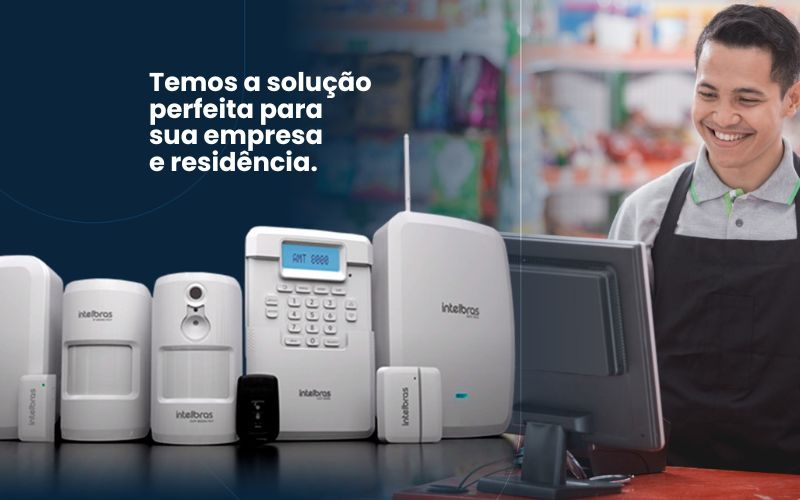
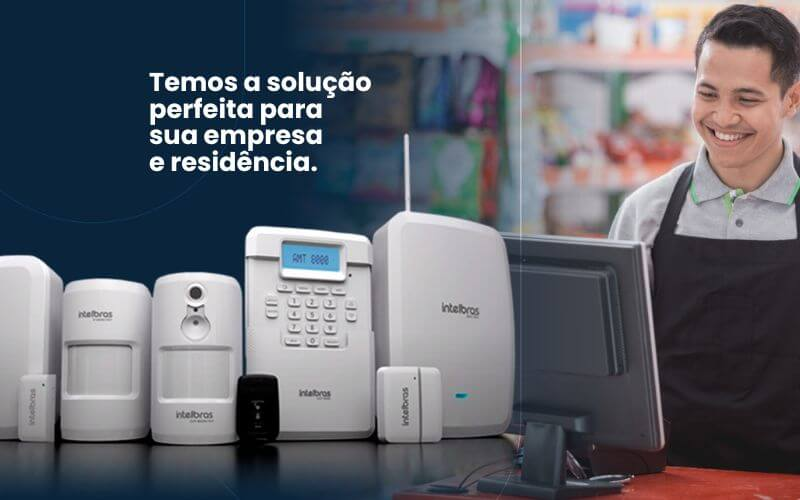
Atualização - Imagens: PNG - JPG

diff --git a/index.html b/index.html
@@ -6,7 +6,8 @@
     <meta name="viewport" content="width=device-width, initial-scale=1.0">
     <meta name="author" content="AX-Security">
     <meta name="title" content="Ax Security" />
-    <meta name="description" content="A melhor Empresa em Segurança Eletrônica Patrimonial, Tecnologia Intelbras | Tudo em até 12x sem juros | Câmeras de segurança 24h | Ligue (11) 4148-2953.re!" />
+    <meta name="description"
+        content="A melhor Empresa em Segurança Eletrônica Patrimonial, Tecnologia Intelbras | Tudo em até 12x sem juros | Câmeras de segurança 24h | Ligue (11) 4148-2953.re!" />
     <meta name="robots" content="index, follow">
     <title>AX Security</title>
     <link rel="shortcut icon" href="source/img/geral/ax.ico" type="image/x-icon">
@@ -14,6 +15,19 @@
     <link rel="stylesheet" href="source/css/global.css">
     <link rel="stylesheet" href="source/css/style.css">
     <meta name="google-site-verification" content="1UAN8ZMaaEQEVliRxwSNIFayV4CYWxszO4hPiTZ0x_M" />
+
+    <head>
+        <script async src="https://www.googletagmanager.com/gtag/js?id=AW-16769529963"></script>
+        <script>
+            window.dataLayer = window.dataLayer || [];
+            function gtag() { dataLayer.push(arguments); }
+            gtag('js', new Date());
+            gtag('config', 'AW-16769529963');
+        </script>
+        <script>
+            gtag('event', 'conversion', { 'send_to': 'AW-16769529963/ncVdCOL8mecZEOvwqrw-' });
+        </script>
+    </head>
 </head>
 
 <body>
@@ -116,7 +130,8 @@
         <article class="cardVisao">
             <img src="source/img/icones/iconNecessidade.svg" alt="Ícone Necessidade" title="Ícone Necessidade">
             <h2 class="tituloCard">Necessidade</h2>
-            <p class="descricaoCard">Oferecemos soluções para garantir a segurança da sua empresa e de sua residência.</p>
+            <p class="descricaoCard">Oferecemos soluções para garantir a segurança da sua empresa e de sua residência.
+            </p>
         </article>
     </section>
     <section id="sctThree">
@@ -142,7 +157,8 @@
                 <img class="cardImg es" src="source/img/icones/iconEspecialidade.svg" alt="Ícone Especialidade"
                     title="Ícone Especialidade">
                 <h3 class="tituloVtg">Especialidade</h3>
-                <p class="descricaoVtg">Somos especialistas em oferecer as melhores soluções de acordo com suas necessidades.</p>
+                <p class="descricaoVtg">Somos especialistas em oferecer as melhores soluções de acordo com suas
+                    necessidades.</p>
             </article>
             <article class="cardVtg four">
                 <img class="cardImg ri" src="source/img/icones/iconRiscos.svg" alt="Ícone Riscos" title="Ícone Riscos">
@@ -158,7 +174,8 @@
                 <div class="svcCardDetalhes seg">
                     <h3>Segurança Eletrônica</h3>
                     <p>
-                        A <span>AX SECURITY</span> oferece projetos completos de Segurança Eletrônica, sempre utilizando as tecnologias mais avançadas e os melhores produtos do mercado.
+                        A <span>AX SECURITY</span> oferece projetos completos de Segurança Eletrônica, sempre utilizando
+                        as tecnologias mais avançadas e os melhores produtos do mercado.
                     </p>
                     <h5>Entre as Opções Estão:</h5>
                     <ul>
@@ -171,7 +188,7 @@
                         <li>MONITORAMENTO PARA EVENTOS</li>
                     </ul>
                     <div class="toggleDetalhes"></div>
-                </div>  
+                </div>
             </div>
             <article class="svcBox">
                 <section class="svcImg seg"></section>
@@ -211,7 +228,8 @@
                 <section class="svcImg ala"></section>
                 <section class="svcInfos ala">
                     <h2 class="svcTitle">Alarmes Monitorados</h2>
-                    <p class="svcDescricao">A AX Security possui uma completa e moderna instalação de alarmes de altíssimo nível e qualidade, linha 8000 Intelbras...</p>
+                    <p class="svcDescricao">A AX Security possui uma completa e moderna instalação de alarmes de
+                        altíssimo nível e qualidade, linha 8000 Intelbras...</p>
                     <a class="svcBtn ala">Saiba Mais</a>
                 </section>
             </article>
@@ -294,17 +312,23 @@
                 <div class="svcCardDetalhes evt">
                     <h3>Central de Monitoramento</h3>
                     <p>
-                        A central de monitoramento da <span>AX Security</span> é o coração da nossa operação, projetada para oferecer segurança de excelência 24 horas por dia. 
-                        Equipadas com tecnologia de ponta e uma equipe altamente treinada, nossas instalações garantem vigilância constante e resposta imediata a qualquer situação.
+                        A central de monitoramento da <span>AX Security</span> é o coração da nossa operação, projetada
+                        para oferecer segurança de excelência 24 horas por dia.
+                        Equipadas com tecnologia de ponta e uma equipe altamente treinada, nossas instalações garantem
+                        vigilância constante e resposta imediata a qualquer situação.
                     </p>
                     <p>
-                        Com câmeras de alta definição e sistemas de análise de dados em tempo real, a central monitora diversos pontos simultaneamente, 
-                        identificando comportamentos suspeitos e garantindo a proteção de nossos clientes. 
-                        Nossos operadores, experientes e dedicados, estão sempre prontos para agir, comunicando-se diretamente com as autoridades locais e equipes de segurança em caso de necessidade.
+                        Com câmeras de alta definição e sistemas de análise de dados em tempo real, a central monitora
+                        diversos pontos simultaneamente,
+                        identificando comportamentos suspeitos e garantindo a proteção de nossos clientes.
+                        Nossos operadores, experientes e dedicados, estão sempre prontos para agir, comunicando-se
+                        diretamente com as autoridades locais e equipes de segurança em caso de necessidade.
                     </p>
                     <p>
-                        Além de monitorar alarmes e câmeras, a central também oferece suporte ao cliente, tirando dúvidas e orientando os moradores em situações específicas. 
-                        A AX Security se compromete a manter sua comunidade segura e informada, utilizando tecnologia e expertise para proporcionar a tranquilidade que você merece.
+                        Além de monitorar alarmes e câmeras, a central também oferece suporte ao cliente, tirando
+                        dúvidas e orientando os moradores em situações específicas.
+                        A AX Security se compromete a manter sua comunidade segura e informada, utilizando tecnologia e
+                        expertise para proporcionar a tranquilidade que você merece.
                     </p>
                     <div class="toggleDetalhes evt"></div>
                 </div>
@@ -323,18 +347,26 @@
                     <h3>Ax Conect</h3>
                     <div style="color: #787D85; line-height: 18px;">
                         <p>
-                            A <span>AX Security</span> tem o prazer de anunciar o lançamento de seu mais recente produto inovador: o poste de monitoramento inteligente AX Connect. 
-                            Este equipamento foi projetado para oferecer uma solução de segurança eficaz e contínua para condomínios e áreas urbanas. 
-                            Com o AX Connect, você e sua comunidade estarão monitorados 24 horas por dia, proporcionando tranquilidade e proteção em tempo integral.
+                            A <span>AX Security</span> tem o prazer de anunciar o lançamento de seu mais recente produto
+                            inovador: o poste de monitoramento inteligente AX Connect.
+                            Este equipamento foi projetado para oferecer uma solução de segurança eficaz e contínua para
+                            condomínios e áreas urbanas.
+                            Com o AX Connect, você e sua comunidade estarão monitorados 24 horas por dia, proporcionando
+                            tranquilidade e proteção em tempo integral.
                         </p>
                         <p>
-                            O poste inteligente combina tecnologia de ponta com uma rede de vigilância integrada, garantindo que qualquer atividade suspeita seja detectada rapidamente. 
-                            Além disso, sua conectividade permite que os moradores se mantenham informados e em contato direto com a central de segurança, promovendo uma resposta ágil em situações de emergência.
+                            O poste inteligente combina tecnologia de ponta com uma rede de vigilância integrada,
+                            garantindo que qualquer atividade suspeita seja detectada rapidamente.
+                            Além disso, sua conectividade permite que os moradores se mantenham informados e em contato
+                            direto com a central de segurança, promovendo uma resposta ágil em situações de emergência.
                         </p>
                         <p>
-                            Investir no AX Connect é uma forma de garantir a segurança e o bem-estar de todos. Com um design moderno e discreto, ele se integra harmoniosamente ao ambiente, 
-                            sem comprometer a estética do condomínio. Experimente a paz de espírito que vem com um sistema 
-                            de monitoramento inteligente e faça parte de uma comunidade mais segura e conectada. Com a AX Security, 
+                            Investir no AX Connect é uma forma de garantir a segurança e o bem-estar de todos. Com um
+                            design moderno e discreto, ele se integra harmoniosamente ao ambiente,
+                            sem comprometer a estética do condomínio. Experimente a paz de espírito que vem com um
+                            sistema
+                            de monitoramento inteligente e faça parte de uma comunidade mais segura e conectada. Com a
+                            AX Security,
                             você pode confiar que a proteção do seu lar está em boas mãos!
                         </p>
                     </div>
@@ -344,7 +376,8 @@
             <article class="svcBox">
                 <section class="svcInfos axc">
                     <h2 class="svcTitle">Ax Connect</h2>
-                    <p class="svcDescricao">A AX Security lança seu mais novo produto, um poste de monitoramento inteligente! Você e seu condomínio monitorados 24H e conectados com a nossa segurança!
+                    <p class="svcDescricao">A AX Security lança seu mais novo produto, um poste de monitoramento
+                        inteligente! Você e seu condomínio monitorados 24H e conectados com a nossa segurança!
                     </p>
                     <a class="svcBtn axc">Saiba Mais</a>
                 </section>
@@ -445,7 +478,8 @@
             <div class="pdtDetalhes amt8000Pro">
                 <div class="pdtCardDetalhes amt8000Pro">
                     <h3>AMT 8000 PRO</h3>
-                    <p>Central de alarme de alta performance, comunicação com todos os dispositivos da linha 8000 com Wi-Fi e sirene integrados.</p>
+                    <p>Central de alarme de alta performance, comunicação com todos os dispositivos da linha 8000 com
+                        Wi-Fi e sirene integrados.</p>
                     <ul>
                         <li>Solução integrada e totalmente sem fio</li>
                         <li>Sirene integrada para alertar imprevistos</li>
@@ -463,7 +497,8 @@
             <div class="pdtDetalhes amt8000Lite">
                 <div class="pdtCardDetalhes amt8000Lite">
                     <h3>AMT 8000 LITE</h3>
-                    <p>A AMT 8000 LITE conta com 16 partições independentes e até 64 zonas e circuito de sirene integrado.</p>
+                    <p>A AMT 8000 LITE conta com 16 partições independentes e até 64 zonas e circuito de sirene
+                        integrado.</p>
                     <ul>
                         <li>Solução totalmente sem fio</li>
                         <li>Sirene integrada</li>
@@ -481,7 +516,8 @@
             <div class="pdtDetalhes ivp8000PetCam">
                 <div class="pdtCardDetalhes ivp8000PetCam">
                     <h3>IVP 8000 PET CAM</h3>
-                    <p>Com câmera integrada e alta eficiência, o sensor é capaz de validar o disparo em tempo real através da fotoverificação.</p>
+                    <p>Com câmera integrada e alta eficiência, o sensor é capaz de validar o disparo em tempo real
+                        através da fotoverificação.</p>
                     <ul>
                         <li>Identificação do disparo em tempo real</li>
                         <li>Mais segurança para seu pet</li>
@@ -499,7 +535,8 @@
             <div class="pdtDetalhes ivp8000Pet">
                 <div class="pdtCardDetalhes ivp8000Pet">
                     <h3>IVP 8000 PET</h3>
-                    <p>Detecta intrusos com precisão enquanto seu animal doméstico transita pela residência sem causar disparos acidentais.</p>
+                    <p>Detecta intrusos com precisão enquanto seu animal doméstico transita pela residência sem causar
+                        disparos acidentais.</p>
                     <ul>
                         <li>Mais segurança para seu pet</li>
                         <li>Configuração através de software remoto</li>
@@ -517,7 +554,8 @@
             <div class="pdtDetalhes ivp8000Ex">
                 <div class="pdtCardDetalhes ivp8000Ex">
                     <h3>IVP 8000 EX</h3>
-                    <p>Possui 2 canais de PIR e função PET, pode ser utilizado em locais com variações climáticas para detecção de intrusões.</p>
+                    <p>Possui 2 canais de PIR e função PET, pode ser utilizado em locais com variações climáticas para
+                        detecção de intrusões.</p>
                     <ul>
                         <li>Sensor para área externa</li>
                         <li>Função antissabotagem</li>
@@ -550,7 +588,8 @@
             <div class="pdtDetalhes xat8000">
                 <div class="pdtCardDetalhes xat8000">
                     <h3>XAT 8000</h3>
-                    <p>O teclado XAT 8000 é um acessório que aumenta a segurança e personaliza a interação do usuário com a central.</p>
+                    <p>O teclado XAT 8000 é um acessório que aumenta a segurança e personaliza a interação do usuário
+                        com a central.</p>
                     <ul>
                         <li>Série 8000</li>
                         <li>Divisão por ambientes</li>
@@ -566,7 +605,8 @@
             <div class="pdtDetalhes xac8000">
                 <div class="pdtCardDetalhes xac8000">
                     <h3>XAC 8000</h3>
-                    <p>O controle remoto XAC 8000 é um acessório que facilita a comunicação entre usuário e a central de alarme, facilitando o ativar/desativar da central.</p>
+                    <p>O controle remoto XAC 8000 é um acessório que facilita a comunicação entre usuário e a central de
+                        alarme, facilitando o ativar/desativar da central.</p>
                     <ul>
                         <li>Série 8000</li>
                         <li>Divisão por ambientes</li>
@@ -582,7 +622,8 @@
             <div class="pdtDetalhes rep8000">
                 <div class="pdtCardDetalhes rep8000">
                     <h3>REP 8000</h3>
-                    <p>Desenvolvido para aumentar o alcance do sistema sem fio. É possível expandir a cobertura em 1000 metros sem barreira.</p>
+                    <p>Desenvolvido para aumentar o alcance do sistema sem fio. É possível expandir a cobertura em 1000
+                        metros sem barreira.</p>
                     <ul>
                         <li>Flexibilidade na instalação em locais de grandes extensões</li>
                         <li>Liberdade na fixação dos dispositivos</li>
@@ -614,7 +655,8 @@
             <div class="pdtDetalhes vipw1220DFcP">
                 <div class="pdtCardDetalhes vipw1220DFcP">
                     <h3>VIPW 1220 D FC+</h3>
-                    <p>Com Full Color +, permite a transição fácil entre as imagens noturnas e coloridas do Full Color e o modo de captura noturna por IR.</p>
+                    <p>Com Full Color +, permite a transição fácil entre as imagens noturnas e coloridas do Full Color e
+                        o modo de captura noturna por IR.</p>
                     <ul>
                         <li>Tecnologia Wi-Fi para projetos de CFTV</li>
                         <li>Full Color Inteligente</li>
@@ -632,7 +674,8 @@
             <div class="pdtDetalhes vipw1220DFc">
                 <div class="pdtCardDetalhes vipw1220DFc">
                     <h3>VIPW 1220 D FC</h3>
-                    <p>A câmera apresenta conexão Wi-Fi e proporciona um monitoramento com imagens coloridas mesmo em ambientes sem iluminação.</p>
+                    <p>A câmera apresenta conexão Wi-Fi e proporciona um monitoramento com imagens coloridas mesmo em
+                        ambientes sem iluminação.</p>
                     <ul>
                         <li>Tecnologia Wi-Fi para projetos de CFTV</li>
                         <li>Monitoramento com alta performance durante a noite</li>
@@ -650,7 +693,8 @@
             <div class="pdtDetalhes vip1220FcP">
                 <div class="pdtCardDetalhes vip1220FcP">
                     <h3>VIP 1220 FC+</h3>
-                    <p>Com o Full Color +, permite a transição fácil entre as imagens noturnas e coloridas do Full Color e o modo de captura noturna por IR.</p>
+                    <p>Com o Full Color +, permite a transição fácil entre as imagens noturnas e coloridas do Full Color
+                        e o modo de captura noturna por IR.</p>
                     <ul>
                         <li>Full Color inteligente</li>
                         <li>Dois modos de visualização noturna</li>
@@ -668,7 +712,8 @@
             <div class="pdtDetalhes vhd3220DFullColor">
                 <div class="pdtCardDetalhes vhd3220DFullColor">
                     <h3>VHD 3220 D FULL COLOR</h3>
-                    <p>Ideal para projetos com monitoramento noturno, garantindo imagens coloridas, no escuro total, com alta qualidade em definição Full HD (1080p).</p>
+                    <p>Ideal para projetos com monitoramento noturno, garantindo imagens coloridas, no escuro total, com
+                        alta qualidade em definição Full HD (1080p).</p>
                     <ul>
                         <li>Alta performance noturna</li>
                         <li>Multirrecursos com o Menu OSD</li>
@@ -686,7 +731,8 @@
             <div class="pdtDetalhes vhd3220DFullColorP">
                 <div class="pdtCardDetalhes vhd3220DFullColorP">
                     <h3>VHD 3220 D FULL COLOR+</h3>
-                    <p>Ideal para projetos com monitoramento noturno, garantindo imagens coloridas, no escuro total, com alta qualidade em definição Full HD (1080p).</p>
+                    <p>Ideal para projetos com monitoramento noturno, garantindo imagens coloridas, no escuro total, com
+                        alta qualidade em definição Full HD (1080p).</p>
                     <ul>
                         <li>Alta performance noturna</li>
                         <li>Multirrecursos com o Menu OSD</li>
@@ -838,6 +884,7 @@
                 <img src="source/img/clientes/mf.png" alt="">
                 <img src="source/img/clientes/lancamix.png" alt="">
                 <img src="source/img/clientes/viasp.png" alt="">
+                <img src="source/img/clientes/espeto.png" alt="">
             </section>
         </section>
     </section>
@@ -884,7 +931,10 @@
             </article>
             <article class="fdCtt">
                 <h5 class="cttBfIcon em">E-mail</h5>
-                <p><a href="/cdn-cgi/l/email-protection#c7b1a2a9a3a6b487a6bfb4a2a4b2b5aeb3bee9a4a8aae9a5b5" target="_blank"><span class="__cf_email__" data-cfemail="a0d6c5cec4c1d3e0c1d8d3c5c3d5d2c9d4d98ec3cfcd8ec2d2">[email&#160;protected]</span></a></p>
+                <p><a href="/cdn-cgi/l/email-protection#c7b1a2a9a3a6b487a6bfb4a2a4b2b5aeb3bee9a4a8aae9a5b5"
+                        target="_blank"><span class="__cf_email__"
+                            data-cfemail="a0d6c5cec4c1d3e0c1d8d3c5c3d5d2c9d4d98ec3cfcd8ec2d2">[email&#160;protected]</span></a>
+                </p>
             </article>
         </section>
         <section id="formCttBox">
@@ -896,7 +946,7 @@
                 <input type="text" required placeholder="Assunto:" name="assunto">
                 <textarea style="resize: none;" required placeholder="Mensagem:" name="mensagem"></textarea>
                 <button name="enviar">Enviar</button>
-            </form> 
+            </form>
         </section>
     </section>
     <iframe id="mapaAx"
@@ -947,7 +997,8 @@
         </section>
         <img src="source/img/geral/Axlogo.png" alt="">
     </footer>
-    <script data-cfasync="false" src="/cdn-cgi/scripts/5c5dd728/cloudflare-static/email-decode.min.js"></script><script src="source/js/script.js"></script>
+    <script data-cfasync="false" src="/cdn-cgi/scripts/5c5dd728/cloudflare-static/email-decode.min.js"></script>
+    <script src="source/js/script.js"></script>
     <script src="source/js/slider.js"></script>
     <script src="source/js/toggleMenu.js"></script>
     <script src="source/js/dtServicos.js"></script>

diff --git a/source/css/style.css b/source/css/style.css
@@ -78,7 +78,7 @@
 }
 
 .imgSlide.one {
-    background: url(source/bannerAx.png);
+    background: url(source/bannerAx.jpg);
     background-size: cover;
     background-attachment: fixed;
 }
@@ -340,7 +340,7 @@
 #infoOne {
     width: 100%;
     height: 220px;
-    background: linear-gradient(155deg, #23262d2d, #23262d9f), url(source/infoTwoBg.png);
+    background: linear-gradient(155deg, #23262d2d, #23262d9f), url(source/infoTwoBg.jpg);
     background-size: cover;
     background-position: center;
     display: flex;
@@ -858,7 +858,7 @@
 }
 
 #empImg {
-    background: url(source/axBanner.png);
+    background: url(source/axBanner.jpg);
     background-size: cover;
     background-position: center;
 }
@@ -1013,7 +1013,7 @@
 
 .info.three {
     background: linear-gradient(90deg, #051421cd, #2974bac1),
-        url(source/infoTwoBg.png);
+        url(source/infoTwoBg.jpg);
     background-position: center;
     background-size: cover;
 }
@@ -1136,7 +1136,7 @@
 }
 
 #dadosCtt {
-    background: url(source/cttBg.png);
+    background: url(source/cttBg.jpg);
     background-size: cover;
     background-position: center;
     padding: 100px 85px;
@@ -1596,7 +1596,7 @@ input[type=number]::-webkit-inner-spin-button {
     }
 
     .imgSlide.one {
-        background: url(source/axBannerTb.png);
+        background: url(source/axBannerTb.jpg);
     }
 
     .imgSlide.two {
@@ -1878,7 +1878,7 @@ input[type=number]::-webkit-inner-spin-button {
     }
 
     .imgSlide.one {
-        background: url(source/axBannerPhone.png);
+        background: url(source/axBannerPhone.jpg);
     }
 
     .imgSlide.two {
